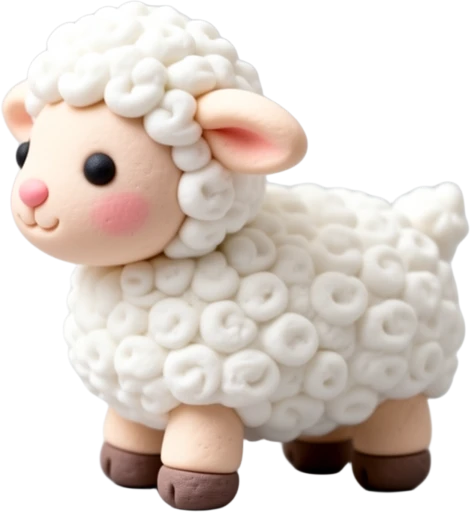
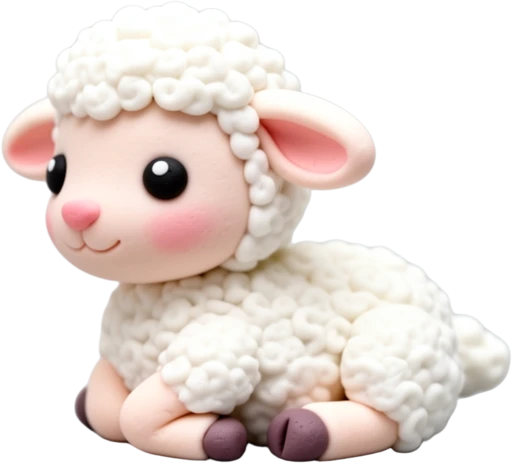
Bystrzakowo: jagniątko i kotek jako wyraźne maluchy (nie myliły się z mamą)

diff --git a/games/bystrzakowo/src/sim/catalog.ts b/games/bystrzakowo/src/sim/catalog.ts
@@ -81,9 +81,9 @@ export const ITEMS: Item[] = [
     ['kaczka', 'Kaczka', 'bialy', 'sc', 'a cute adult white farm duck with an orange beak and orange feet, standing tall, side view'],
     ['kura', 'Kura', 'bialy', 's', 'a cute white hen with a red comb standing, side view'],
     ['cielaczek', 'Cielaczek', '', 's', 'a tiny cute newborn baby calf with brown spots, oversized head, short stubby legs, lying down curled up, side view'],
-    ['kotek', 'Kotek', '', 's', 'a tiny cute grey kitten playing'],
+    ['kotek', 'Kotek', '', 's', 'a tiny cute newborn grey baby kitten with an oversized head and big eyes, curled up lying down, side view'],
     ['owca', 'Owca', 'bialy', '', 'a cute fluffy white sheep standing, side view'],
-    ['jagniatko', 'Jagniątko', 'bialy', '', 'a tiny cute fluffy white baby lamb, side view'],
+    ['jagniatko', 'Jagniątko', 'bialy', '', 'a tiny cute newborn white baby lamb with an oversized head, big eyes and short wool, lying down with legs folded, side view'],
     ['swinka', 'Świnka', 'rozowy', 's', 'a cute pink pig standing, side view'],
     ['prosiaczek', 'Prosiaczek', 'rozowy', 'sc', 'a tiny cute newborn pink piglet with an oversized head and big eyes, sitting on its bottom, side view'],
     ['kon', 'Koń', 'brazowy', 's', 'a cute brown horse standing, side view'],
